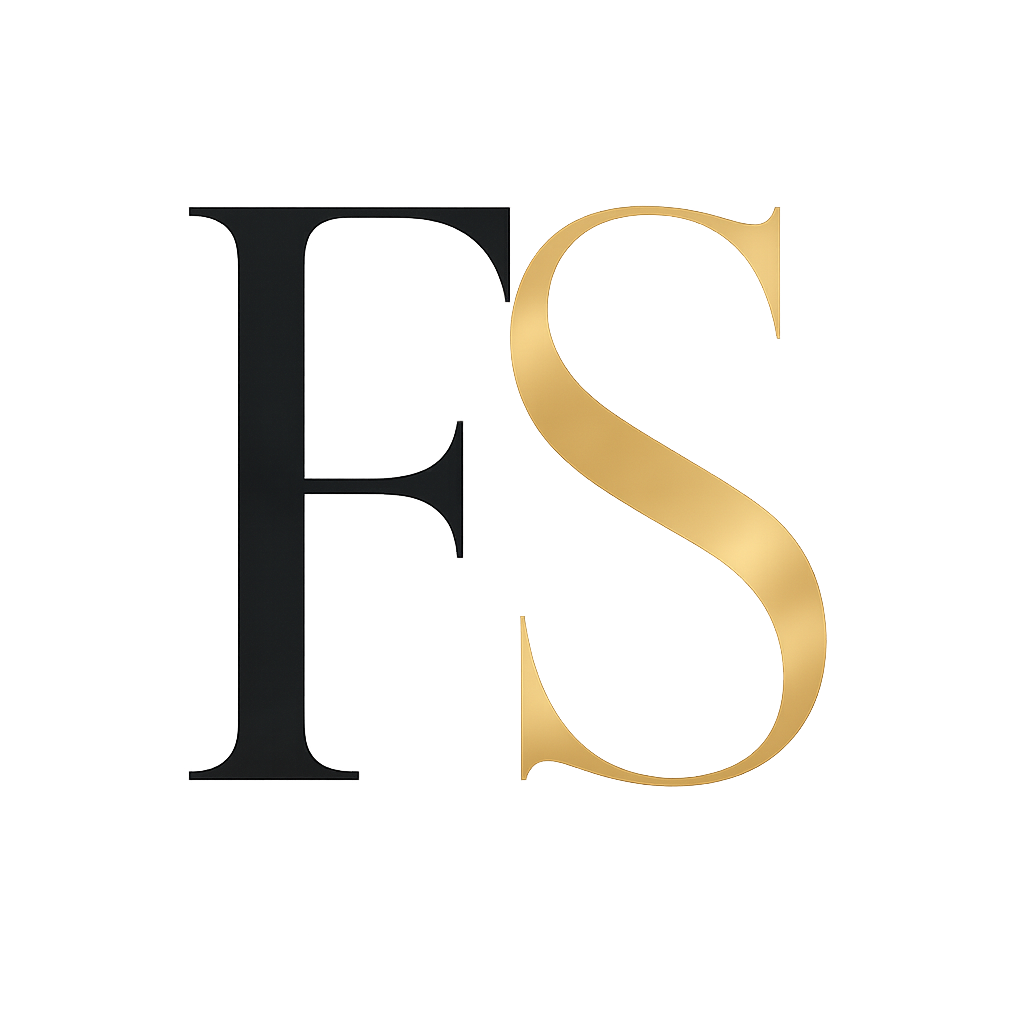
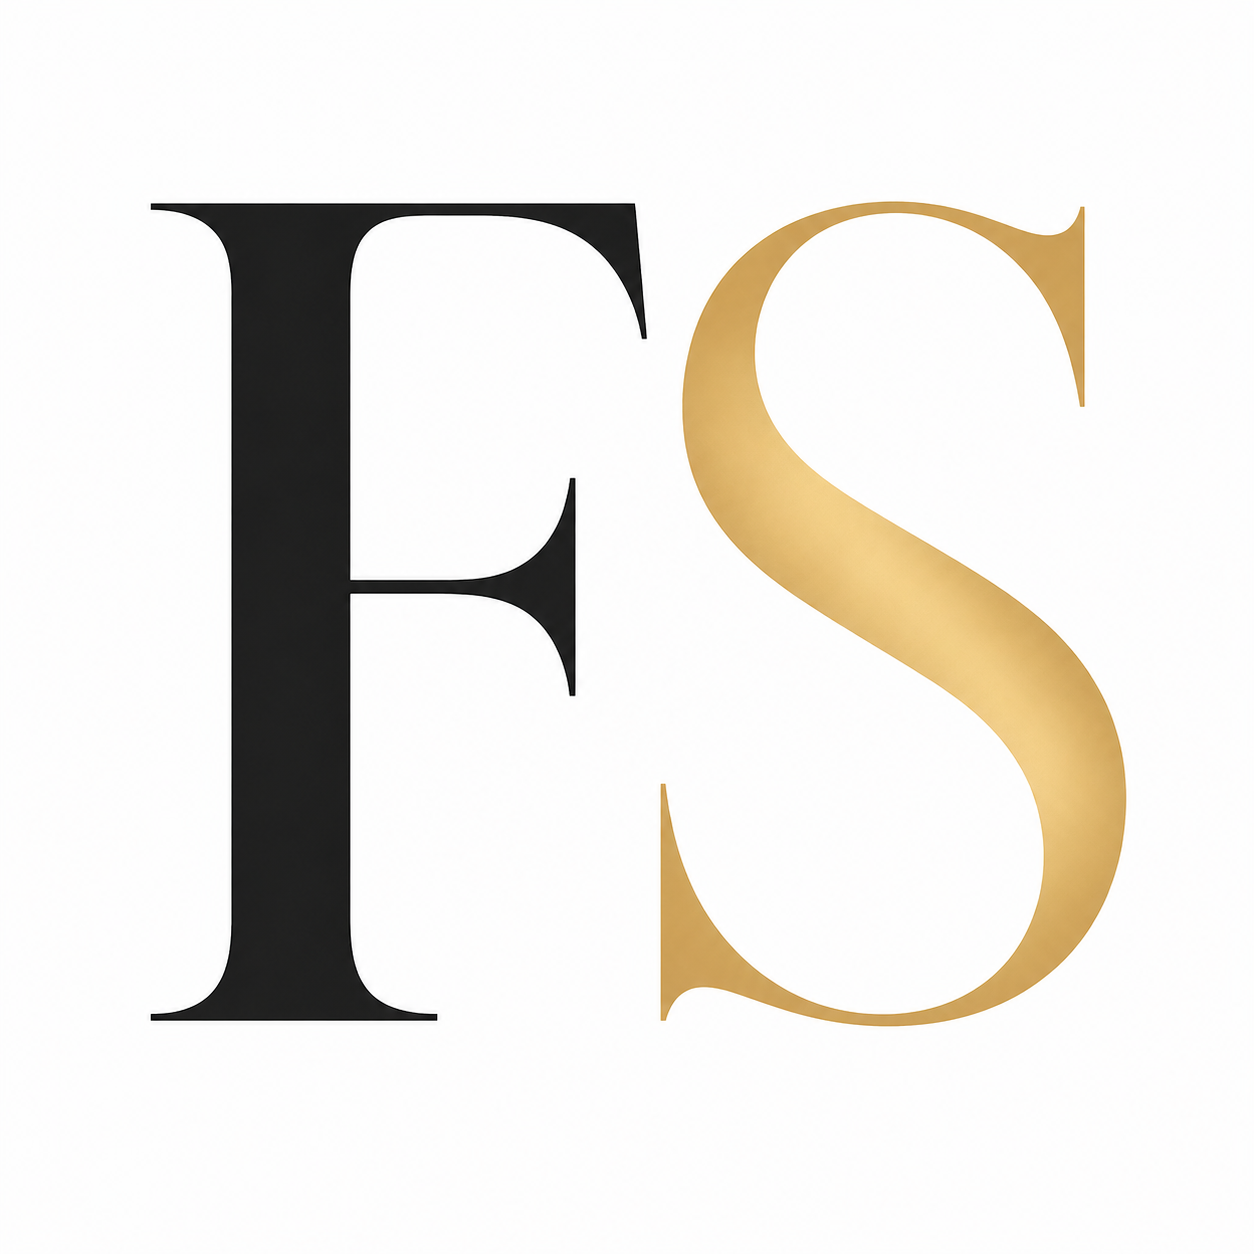
fix

Changed region(s): [[0.125, 0.1562, 0.9062, 0.8438]]

diff --git a/components/layout/sidebar.tsx b/components/layout/sidebar.tsx
@@ -119,9 +119,8 @@ export function Sidebar({
     )}>
       <div className="p-4 border-b border-gray-200 flex-shrink-0">
         <div className="flex items-center gap-2.5">
-          <div className="w-8 h-8 bg-blue-600 rounded-lg flex items-center justify-center flex-shrink-0">
-            <span className="text-white font-bold text-sm">F</span>
-          </div>
+          {/* eslint-disable-next-line @next/next/no-img-element */}
+          <img src="/logo.png" alt="FIT STAGE" className="w-8 h-8 rounded-lg object-contain flex-shrink-0" />
           <div className="flex-1">
             <p className="font-semibold text-gray-900 text-sm leading-tight">FIT STAGE</p>
             <p className="text-xs text-gray-400">ポータル</p>
